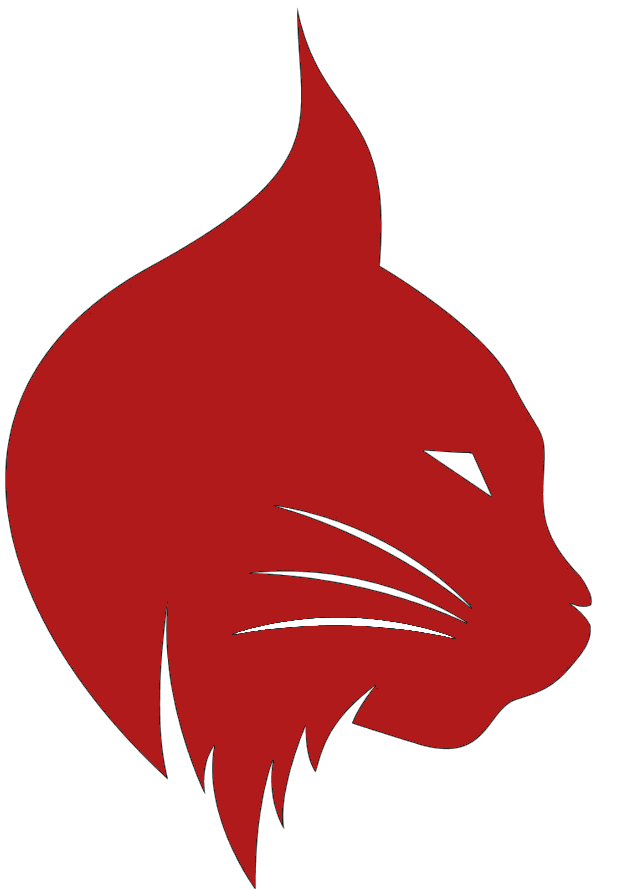
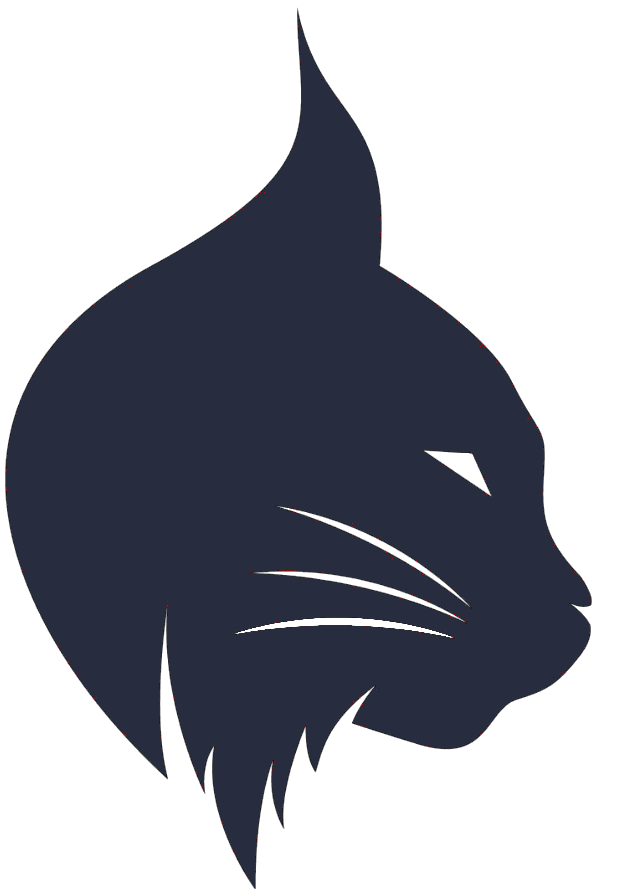
redesign

diff --git a/responsive-website/src/components/common/Navbar.jsx b/responsive-website/src/components/common/Navbar.jsx
@@ -1,60 +1,60 @@
 import React from "react";
 import { Link } from "react-router-dom";
-import logo from "../../assets/images/LynxNet.png";
+import logo from "../../assets/images/lynxhead.png";
 
 const Navbar = () => {
   return (
     <nav className="">
-      <div className=" max-w-screen-2xl mx-auto px-6">
+      <div className=" max-w-screen-2xl mx-auto px-6 ">
         <div className="flex items-center justify-between py-4 ">
-          <div className=" flex w-full justify-between">
-            <div className=" ">
-              <Link to="/" className="text-white font-bold text-xl">
+          <div className=" flex w-full justify-between ">
+            <div className=" w-1/3">
+              <Link to="/" className="">
                 <img src={logo} className=" h-16" />
               </Link>
             </div>
-            <ul className="flex items-center gap-12 ">
+            <ul className="flex items-center  w-1/3">
               <Link
                 to="/"
-                className="transition-all duration-300 text-gray-300 hover:text-red-200 font-medium text-lg"
+                className="transition-all duration-300 text-lg px-4 py-1 hover:bg-slate-100 rounded-lg"
               >
                 Home
               </Link>
               <Link
                 to="/pricing"
-                className="transition-all duration-300 text-gray-300 hover:text-red-200 font-medium text-lg"
+                className="transition-all duration-300 hover:bg-slate-100 rounded-lg px-4 py-1 text-lg"
               >
                 Pricing
               </Link>
               <Link
                 to="/features"
-                className="transition-all duration-300 text-gray-300 hover:text-red-200 font-medium text-lg"
+                className="transition-all duration-300 text-lg px-4 py-1 hover:bg-slate-100 rounded-lg"
               >
                 Features
               </Link>
               <Link
                 to="/contact"
-                className="transition-all duration-300 text-gray-300 hover:text-red-200 font-medium text-lg"
+                className="transition-all duration-300 text-lg px-4 py-1 hover:bg-slate-100 rounded-lg"
               >
                 Contact
               </Link>
               <Link
                 to="/aboutus"
-                className="transition-all duration-300 text-gray-300 hover:text-red-200 font-medium text-lg"
+                className="transition-all duration-300 text-lg  px-4 py-1 hover:bg-slate-100 rounded-lg"
               >
                 About Us
               </Link>
             </ul>
-            <div className="flex items-center gap-12 ">
+            <div className="flex justify-end items-center gap-12 w-1/3">
               <Link
                 to="/login"
-                className="transition-all duration-300 text-gray-300 hover:text-red-200 font-medium text-lg"
+                className="transition-all duration-300  text-lg px-4 py-1 hover:bg-slate-100 rounded-lg "
               >
                 Login
               </Link>
               <Link
                 to="/signup"
-                className="transition-all duration-300 text-white  font-medium text-lg px-4 py-1 rounded-md bg-red-800"
+                className="transition-all duration-300 text-lg px-4 py-1 rounded-md bg-slate-800 text-white"
               >
                 Sign Up
               </Link>

diff --git a/responsive-website/src/App.jsx b/responsive-website/src/App.jsx
@@ -12,9 +12,9 @@ import AboutUs from "./components/pages/AboutUsPage";
 const App = () => {
   return (
     <Router>
-      <div className="flex flex-col min-h-screen bg-black text-gray-200 ">
+      <div className="flex flex-col min-h-screen">
         <Navbar />
-        <main className="">
+        <main className="max-w-screen-2xl  mx-auto">
           <Routes>
             <Route path="/" element={<HomePage />} />
             <Route path="/pricing" element={<PricingPage />} />

diff --git a/responsive-website/src/components/home/HeroSection.jsx b/responsive-website/src/components/home/HeroSection.jsx
@@ -1,9 +1,17 @@
 import React from "react";
+import ipohneImg from "../../assets/images/ipohne.png";
 
 const HeroSection = () => {
   return (
-    <div>
-      <h1>hi from hero</h1>
+    <div className="">
+      <div className="bg-gray-300 grid grid-cols-2 ">
+        <div>
+          <h1>left</h1>
+        </div>
+        <div id="heroIpohneBg" className="">
+          <h1>ipone</h1>
+        </div>
+      </div>
     </div>
   );
 };

diff --git a/responsive-website/src/index.css b/responsive-website/src/index.css
@@ -5,3 +5,10 @@
 body {
   font-family: "Nunito", sans-serif;
 }
+
+#heroIpohneBg {
+  background-image: url(/src/assets/images/ipohne.png);
+  background-color: red;
+  background-position: center;
+  background-attachment: fixed;
+}

diff --git a/responsive-website/src/components/pages/HomePage.jsx b/responsive-website/src/components/pages/HomePage.jsx
@@ -6,7 +6,7 @@ import FaqSection from "../home/FaqSection";
 
 const HomePage = () => {
   return (
-    <div>
+    <div className="border-2 ">
       <HeroSection />
       <HeroFeatures />
       <TestimonialSection />

diff --git a/responsive-website/src/components/home/TestimonialSection.jsx b/responsive-website/src/components/home/TestimonialSection.jsx
@@ -1,11 +1,7 @@
 import React from "react";
 
 const TestimonialSection = () => {
-  return (
-    <div>
-      <h1>testimonal</h1>
-    </div>
-  );
+  return <div></div>;
 };
 
 export default TestimonialSection;

diff --git a/responsive-website/src/components/home/HeroFeatures.jsx b/responsive-website/src/components/home/HeroFeatures.jsx
@@ -1,11 +1,7 @@
 import React from "react";
 
 const HeroFeatures = () => {
-  return (
-    <div>
-      <h1>hi from feature</h1>
-    </div>
-  );
+  return <div></div>;
 };
 
 export default HeroFeatures;

diff --git a/responsive-website/src/components/home/FaqSection.jsx b/responsive-website/src/components/home/FaqSection.jsx
@@ -1,7 +1,7 @@
 import React from "react";
 
 const FaqSection = () => {
-  return <h1>hi from faq</h1>;
+  return <h1></h1>;
 };
 
 export default FaqSection;
